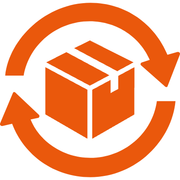
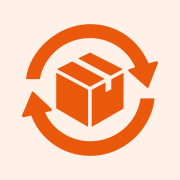
feat: 브랜드 로고를 SVG 컴포넌트로 통일한다
헤더와 로그인이 같은 BrandLogo 원형 칩을 쓰고, 파비콘·터치 아이콘도 logo.svg에서 파생한다.

diff --git a/web/src/pages/login.tsx b/web/src/pages/login.tsx
@@ -1,5 +1,6 @@
 import { Show, createSignal, onSettled } from "solid-js";
 import { api } from "../api/client";
+import { BrandLogo } from "../components/brand-logo";
 import { Button } from "../components/ui/button";
 import { APP_NAME } from "../brand";
 
@@ -87,7 +88,7 @@ export default function Login() {
       <div class="box-border flex min-h-dvh flex-col items-center justify-center p-6">
         <div class="flex w-full max-w-[340px] flex-col items-center text-center">
           <div class="flex flex-col items-center">
-            <img class="block size-10 rounded-card object-contain min-[600px]:size-12" src="/logo.png" alt="" />
+            <BrandLogo size="lg" />
             <h1 class="mt-2 text-page-title font-bold tracking-tight text-ink-1">{APP_NAME}</h1>
             <p class="mt-2 max-w-[280px] text-body leading-normal text-ink-2">
               필요한 물건을 빌리고,

diff --git a/web/src/components/app-header.tsx b/web/src/components/app-header.tsx
@@ -2,6 +2,7 @@ import { Show, createSignal, onSettled } from "solid-js";
 import { session } from "../context/session";
 import { location, navigate } from "../router";
 import { APP_NAME, APP_NAME_SHORT } from "../brand";
+import { BrandLogo } from "./brand-logo";
 import { ChevronDownIcon } from "./icons";
 
 type NavItem = { href: string; label: string };
@@ -96,7 +97,7 @@ export function AppHeader() {
           class="flex shrink-0 items-center no-underline"
           aria-label={`${APP_NAME} — 홈`}
         >
-          <img src="/logo.png" alt="" class="block size-7 rounded-card" />
+          <BrandLogo />
           {/* 모바일은 로고만 — 메뉴·계정 버튼과 겹치지 않게 데스크톱에서만 축약명을 보인다. */}
           <span class="ml-2 hidden text-body font-semibold tracking-tight text-ink-1 lg:inline">
             {APP_NAME_SHORT}

diff --git a/web/src/components/brand-logo.tsx b/web/src/components/brand-logo.tsx
@@ -1,0 +1,25 @@
+type Size = "sm" | "lg";
+
+// 칩과 로고의 크기 차이를 4px로 고정해 헤더·로그인이 같은 여백 문법을 쓴다.
+const SIZES: Record<Size, { chip: string; mark: string }> = {
+  sm: { chip: "size-8", mark: "size-6" },
+  lg: {
+    chip: "size-12 min-[600px]:size-14",
+    mark: "size-10 min-[600px]:size-12",
+  },
+};
+
+/**
+ * 브랜드 로고 — 헤더·로그인에서 같은 원형 칩 모양을 쓴다.
+ * `logo.svg` 벡터 자산이라 어떤 크기에서도 선명하다.
+ */
+export function BrandLogo(props: { size?: Size }) {
+  const size = () => SIZES[props.size ?? "sm"];
+  return (
+    <span
+      class={`inline-flex shrink-0 items-center justify-center rounded-pill bg-primary-soft ${size().chip}`}
+    >
+      <img src="/logo.svg" alt="" class={`block ${size().mark}`} />
+    </span>
+  );
+}

diff --git a/web/index.html b/web/index.html
@@ -4,6 +4,7 @@
     <meta charset="utf-8" />
     <meta name="viewport" content="width=device-width, initial-scale=1" />
     <title>정토회 청년 물품 대여</title>
+    <link rel="icon" type="image/svg+xml" href="/favicon.svg" />
     <link rel="icon" type="image/png" sizes="32x32" href="/favicon-32.png" />
     <link rel="apple-touch-icon" href="/apple-touch-icon.png" />
     <script type="module" src="/src/main.tsx"></script>

diff --git a/docs/11-ui-components.md b/docs/11-ui-components.md
@@ -36,6 +36,9 @@
 - **배지** 14px 알약 + 점 6px. 상태는 텍스트가 말한다 — 색만으로 구분하지 않는다.
 - **물품 카드** 사진 4:3, 본문 16px, hover는 테두리만(`--border-strong`). 확대 효과 없음.
 - **모달** `--shadow-modal`, 오버레이, Esc 닫기, 열었던 요소로 포커스 복귀.
+- **브랜드 로고** `BrandLogo` — `web/public/logo.svg` 하나를 `--primary-soft` 원형 칩에 넣는다.
+  칩과 로고의 크기 차이는 4px로 고정하고, 헤더는 `sm`(32/24px), 로그인은
+  `lg`(48/40px, 600px 이상 56/48px)을 쓴다. 파비콘·터치 아이콘도 같은 SVG에서 파생한다.
 
 모든 인터랙티브 요소는 default / hover / focus-visible(2px `--primary`) / active /
 disabled / loading / error / empty / mobile 390을 확인한다.
